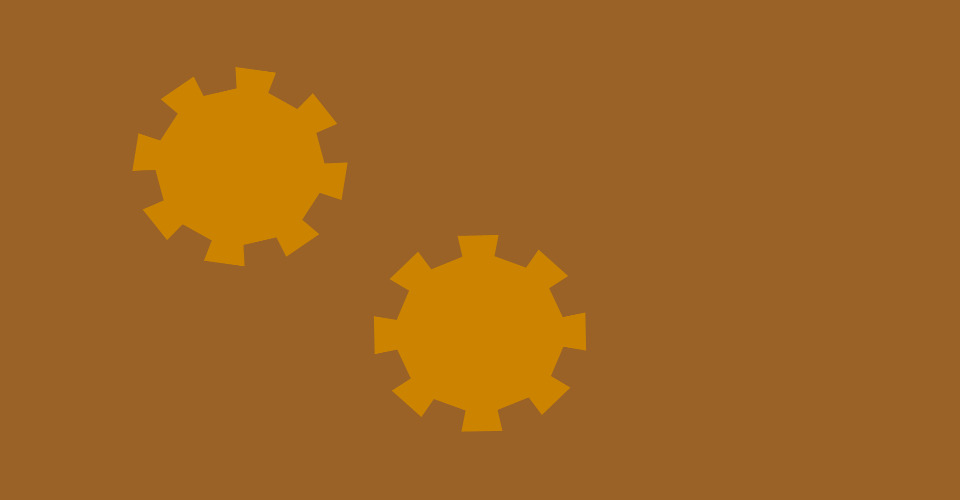
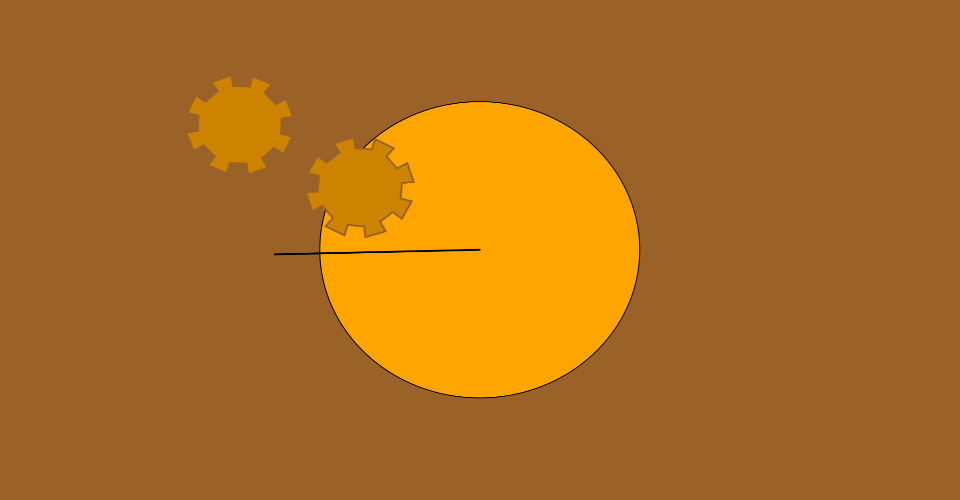
Small update

Changed region(s): [[0.125, 0.12, 0.6875, 0.87]]

diff --git a/draw_one_frame.js b/draw_one_frame.js
@@ -1,34 +1,35 @@
 
-function draw_one_frame(cur_frac) {
+function draw_one_frame(cur_frac){
   // My Code
   let deepGold = color("#9a6226");
-  let lightGold = color("#ffa500");
-
   background(deepGold);
-  // cogRotation();
-    let angle = cur_frac*2;
-    let xPosition = width/4
-    let yPosition = height/3
-    
+
+  let xPosition = width/4
+  let yPosition = height/4
+  let framerate = cur_frac* 4.8
+
+  mainClock();
+
+  // Cogs
   translate(xPosition, yPosition);
   push();
-  rotate(angle);
+  rotate(framerate);
   cog();
   pop();
   
   // second cog
-  translate(xPosition, yPosition);
+  translate(xPosition/2, yPosition/2);
   push();
-  rotate(-angle + TWO_PI/3);
+  rotate(-framerate + TWO_PI/3);
   cog();
   pop();
 }
 
 ////////// FUNCTIONS //////////
 // Cog Shape created by ChatGPT.
-function cog() {
+function cog(cur_frac) {
   let numTeeth = 8; // number of teeth on the cog
-  let cogRadius = 100; // radius of the cog
+  let cogRadius = 50; // radius of the cog; changes size
   let innerRadius = cogRadius * 0.85; // radius of the circle in the center of the cog
   let toothSize = cogRadius / 12; // length of each tooth
   let angleStep = TWO_PI / numTeeth; // angle between each tooth
@@ -56,14 +57,20 @@ function cog() {
 }
 
 // Main Clock
-function mainClock(){
-  // outer circle
-   ellipse(width/2, height/2, height, height);
-   fill(midGold);
+function mainClock(cur_frac){
+  let lightGold = color("#ffa500");
+  let ellipseSize = width/3
+  let tick = cur_frac* 4.8
+  
+  ellipseMode(CENTER);
+  fill(lightGold);
+  ellipse(width/2, height/2, ellipseSize, ellipseSize);
 
-  // inner circle
-  ellipse(width/2, height/2, height/1.2, height/1.2);
-  stroke(lightGold);
+  strokeWeight(2);
+  line(width/2, height/2, 275, 275);
+
+  // line(ellipseSize/2, ellipseSize/2, tick, tick);
+
 }
 
 

diff --git a/p5.func.js b/p5.func.js
@@ -2672,7 +2672,7 @@
       //     e.eval2d('su*sv', 20, 20);
       // will return a two-dimensional array with 20x20 values from -1. to 1. multiplied together.
       //
-      // because the eval() is run in the browser, any code included will add
+      // because the eval() is run in the brower, any code included will add
       // functionality to the p5.ArrayEval object, e.g. p5.js math functions
       // (sin(), cos(), etc.) will work correctly.
       //
@@ -3795,7 +3795,7 @@
     if(_array.constructor == Float64Array) a = Array.prototype.slice.call(_array);
 
     var TERMWIDTH = 80; // columns (1 additional will be used for left margin)
-    var TERMHEIGHT = 23; // VT100 is 24 rows ('take back one kadam...')
+    var TERMHEIGHT = 23; // VT100 is 24 row ('take back one kadam...')
     var out = [];
     var si, phase;
     var i, j, k, len, wave;
@@ -3811,7 +3811,7 @@
     phase = 1.;
     for(i = 0; i < TERMHEIGHT; i++) {
       k = 0;
-      // add alternator to left margin of line - prevents browser consoles
+      // add alternator to left margin of line - prevents brower consoles
       // from interpreting duplicate lines and only printing them once:
       if(i%2) line= '~'; else line='|';
       // format line based on function being within phase boundary

diff --git a/z_purview_helper.js b/z_purview_helper.js
@@ -17,7 +17,7 @@ function saveBlocksImages(doZoom) {
   context.fillStyle="#FFFFFF";
   context.fillRect(0, 0, 960, 500);
   context.drawImage(this.canvas, 0, 0, 960, 500);
-  // save to browser
+  // save to brower
   var downloadMime = 'image/octet-stream';
   var imageData = offscreenCanvas.toDataURL('image/jpeg');
   imageData = imageData.replace('image/jpeg', downloadMime);
@@ -52,7 +52,7 @@ function saveBlocksImages(doZoom) {
     if (sy > this.canvas.height - sh) {
       sy = this.canvas.height - sh;
     }
-    // save to browser
+    // save to brower
     context.drawImage(this.canvas, sx, sy, sw, sh, 0, 0, 230, 120);
   }
   else {

diff --git a/simplex-noise.js b/simplex-noise.js
@@ -466,7 +466,7 @@ Better rank ordering method by Stefan Gustavson in 2012.
   if (typeof define !== 'undefined' && define.amd) define(function() {return SimplexNoise;});
   // common js
   if (typeof exports !== 'undefined') exports.SimplexNoise = SimplexNoise;
-  // browser
+  // brower
   else if (typeof window !== 'undefined') window.SimplexNoise = SimplexNoise;
   // nodejs
   if (typeof module !== 'undefined') {

diff --git a/README.md b/README.md
@@ -1,5 +1,5 @@
 [![Open in Visual Studio Code](https://classroom.github.com/assets/open-in-vscode-c66648af7eb3fe8bc4f294546bfd86ef473780cde1dea487d3c4ff354943c9ae.svg)](https://classroom.github.com/online_ide?assignment_repo_id=10300842&assignment_repo_type=AssignmentRepo)
 ### 2023 MDDN342 Project 1: Parameterised Space
 
-9/3/2023
-Still in the very early stages and largely just trying to focus on the movements of certain elements. I got the cog shape with the help of ChatGPT. For the rotation, I'm still experimenting with the rotation rate to make things loop nicely! Also trying to figure out the best placements of the cogs in regards to each other still. Colours are not at all finalised, but I was sick of looking at B & W. :)
+14/3/2023
+Didn't get as much work done over the weekend as I was ill. However I did a bit more experimentation this week I've decided that I might scrap this idea and go back to the drawing board. My inspiration was the geometric shapes/patterns, so I think I'll revert back to that idea as I'm not enjoying this one much and it's feeling a little repetitive of my previous projects.
